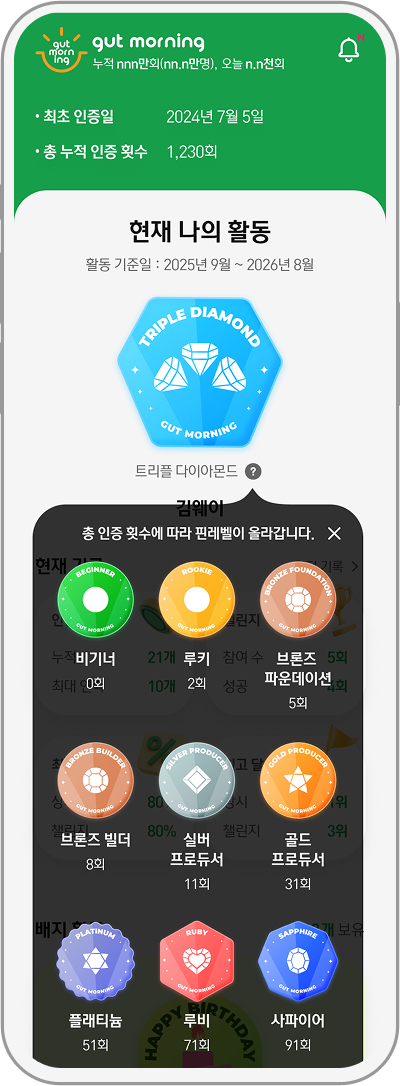
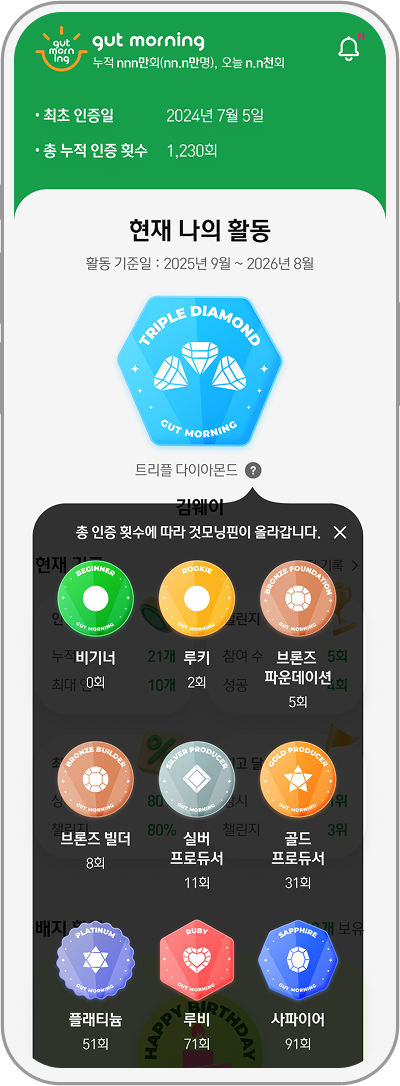
배지 설명 팝업 텍스트 수정
핀레벨이 -> 것모닝핀이

diff --git a/src/views/Gut00035-02.vue b/src/views/Gut00035-02.vue
@@ -28,7 +28,7 @@
           <div class="badges_reward">
             <div class="badges_reward_btn">
               <div class="badges_reward_btn__pop">
-                <span class="badges_reward_btn-txt"> 총 인증 횟수에 따라 핀레벨이 올라갑니다. </span>
+                <span class="badges_reward_btn-txt"> 총 인증 횟수에 따라 것모닝핀이 올라갑니다. </span>
                 <button class="badges_reward_btn__pop__close"></button>
                 <div class="activity__area_badge-section">
                   <div class="badge-box-wrap">

diff --git a/src/views/Gut00035.vue b/src/views/Gut00035.vue
@@ -27,7 +27,7 @@
           <div class="badges_reward">
             <div class="badges_reward_btn">
               <div class="badges_reward_btn__pop">
-                <span class="badges_reward_btn-txt"> 총 인증 횟수에 따라 핀레벨이 올라갑니다. </span>
+                <span class="badges_reward_btn-txt"> 총 인증 횟수에 따라 것모닝핀이 올라갑니다. </span>
                 <button class="badges_reward_btn__pop__close"></button>
                 <div class="activity__area_badge-section">
                   <div class="badge-box-wrap">
